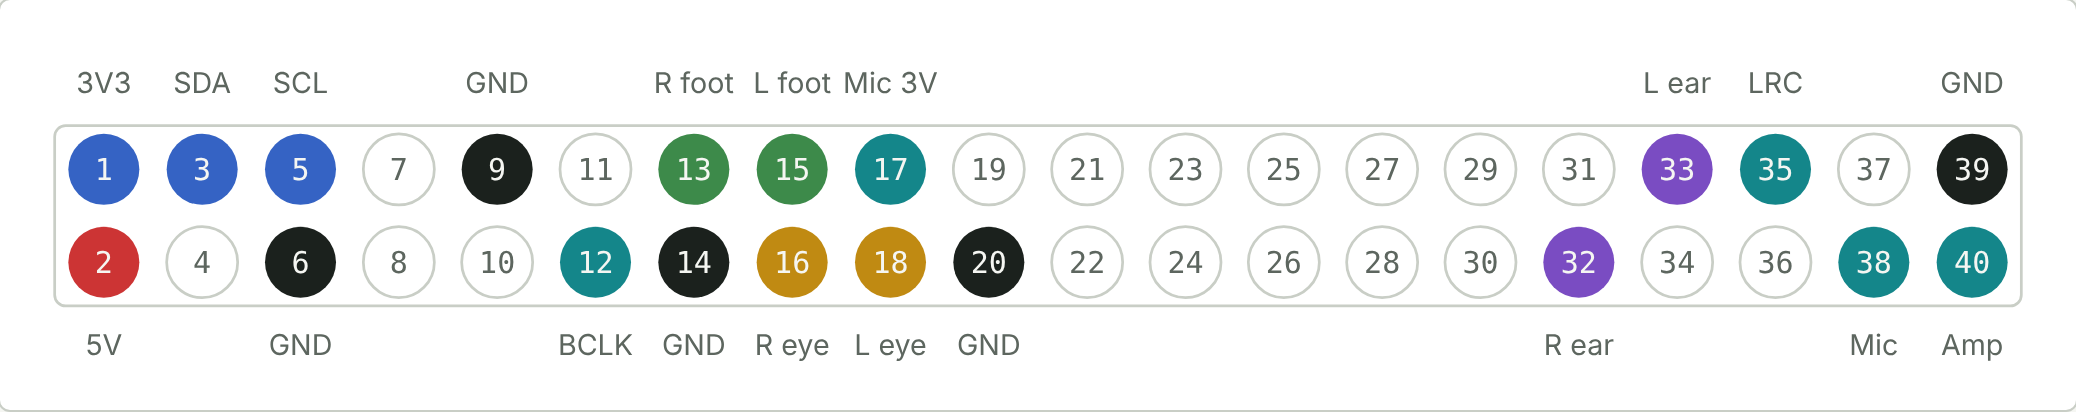
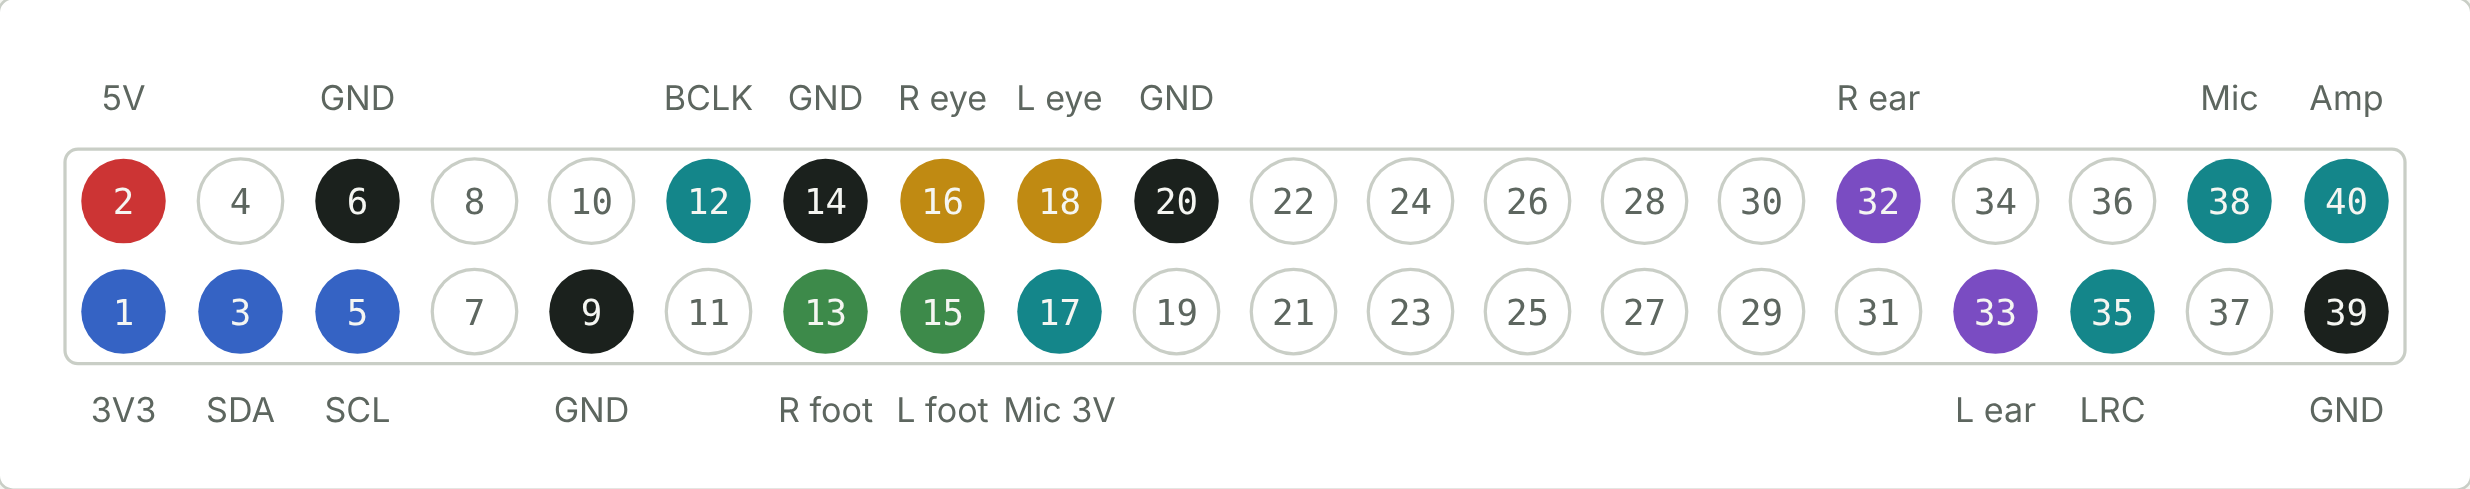
Full review: fix header orientation, feet, jumpers, UBEC floor, switch
- Header map: odd pins on the inner row, as on the board
- Foot switches: C to GND, NO to GPIO, as TNKR step 53; never NC
- Servo board A/B jumper on B (USB), shown only in TNKR step 47
- UBEC input floor 7 V: recharge at 7.0-7.2 V resting
- 3-lug switch: P+ on the middle lug; rating unverified
- Charge with the switch off; switch-off does not isolate the pack
- WAGO 221-613 needs 20 AWG or thicker
- Head disconnect needs a plug and a jack; kit has plugs only
- Errata corrected (#8) and extended (#18, #19)

Claude-Session: https://claude.ai/code/session_015hkd4hjvPSCdMv4uaz4pEB

diff --git a/docs/03-power-distribution.md b/docs/03-power-distribution.md
@@ -9,23 +9,34 @@ The switched 7.4 V rail feeds two loads: the servo board and the UBEC in the hea
 | WAGO plus | Slide switch output | Servo board DC+ | UBEC IN+ |
 | WAGO minus | BMS P− | Servo board DC− | UBEC IN− |
 
-Use 3-way connectors: WAGO 221-413, or 221-613 (same function, rated for 6 mm²). The 221 series takes 0.2–4 mm² wire (24–12 AWG). Strip 11 mm and push the wire fully in. Do not use WAGO connectors for thin signal wires.
+Use 3-way connectors: WAGO 221-413 or 221-613. They do the same job but take different wire sizes:
+
+| Connector | Wire range |
+|---|---|
+| 221-413 | 0.14–4 mm² (24–12 AWG) |
+| 221-613 | 0.5–6 mm² (20–10 AWG) |
+
+With the 221-613, every wire must be 20 AWG or thicker. A 22 AWG lead does not clamp reliably; use a 221-413 for it, or extend it with 20 AWG first. Strip 11 mm and push the wire fully in. Do not use WAGO connectors for thin signal wires.
 
 ## Servo board
 
 Waveshare Bus Servo Adapter (A).
 
 - **Power:** connect DC+ and DC− to the **green screw terminal**. The board also has a round DC jack, and the kit includes 2.1 mm barrel plugs that fit it, but a 2.1 mm barrel connector is typically rated for only a few amps. Fourteen STS3215 servos can draw much more when the robot stands up or walks.
-- **Jumpers:** set to **VM** and **ON**. Switch the pack on and check that the PWR LED lights.
-- **Data:** USB-C on the servo board to the **middle** micro-USB port on the Pi (marked USB). The right-hand micro-USB on the Pi is power only.
+- **Power jumpers:** set to **VM** and **ON** (TNKR step 39). Switch the pack on and check that the PWR LED lights.
+- **A/B jumper:** set to **B**. B selects USB control; A selects the UART header (Waveshare wiki). TNKR shows this only as a label in the step 47 drawing ("set to B"); no step text mentions it.
+- **Data:** USB-C on the servo board to the **middle** micro-USB port on the Pi (marked USB). With the SD card on the left, the right-hand micro-USB (PWR IN) is power only.
 - **Servo bus:** the leg servos plug into servo bus 1 and servo bus 2 as daisy chains. The TNKR text for step 47 calls these "I²C" and "UART" sockets; the drawing and table call them servo bus 1 and 2. Use the two servo bus ports. Direction is corrected in software.
 
 ## UBEC
 
-The UBEC sits in the head and converts the 7.4 V rail to 5 V for the Pi, amplifier and ear servos.
+The UBEC sits in the head and converts the 7.4 V rail to 5 V for the Pi, amplifier and ear servos. TNKR's drawing (step 40) shows a Henge 5 A UBEC printed "INPUT 7V–25.2V".
 
-- **Before connecting anything to its output,** switch on and measure **5.0 V ± 0.1**. If the UBEC has a 5 V / 6 V jumper, it must be on 5 V. 6 V can damage the Pi.
-- Feeding the Pi through its GPIO 5V pin bypasses the Pi's USB fuse. Below 4.75 V the Pi shows an under-voltage warning.
+- **5 V / 6 V jumper on 5 V.** 6 V can damage the Pi.
+- **Before connecting anything to its output,** switch on and measure **5.0 V ± 0.1**.
+- **Input floor 7 V.** The pack runs 6.0–8.4 V, and the servos pull it lower under load. Below about 7 V the 5 V rail can sag and the Pi can reset before the BMS cuts off. Recharge when the pack rests at about 7.0–7.2 V.
+- Feeding the Pi through its GPIO 5V pin bypasses the Pi's USB fuse. The Pi flags under-voltage below about 4.63 V. TNKR says 4.75 V; either way, aim for 5.0–5.1 V.
+- **Never plug a USB power supply into the Pi's PWR port** while the UBEC feeds pin 2. The two supplies would run in parallel with no protection.
 
 ## Removing the head
 
@@ -39,8 +50,8 @@ Most wires through the neck already have connectors:
 | Servo bus to neck and head servos | Servo bus plugs |
 | 7.4 V to the UBEC | **None by default** |
 
-Add a connector in the 7.4 V pair between the WAGO connectors and the neck. The current is low (Pi, ears, LEDs and audio, under 2 A at 7.4 V), so a spare 2.1 mm barrel plug and jack from the kit works, or an XT30. An XT60 is oversized for this line.
+Add a connector in the 7.4 V pair between the WAGO connectors and the neck. The current is low (Pi, ears, LEDs and audio, under 2 A at 7.4 V). A disconnect needs a matching pair: a 2.1 mm barrel plug **and** an inline 2.1 mm barrel jack, or an XT30 pair. The kit has 2.1 mm barrel plugs; you probably have to buy the jack. An XT60 is oversized for this line.
 
 ## No pack connector
 
-The TNKR guide shows an XT60 on the pack output (steps 37–40, 52). The kit does not include one, and it is not needed: the slide switch cuts power, and the pack charges in place over USB-C.
+The TNKR guide shows an XT60 on the pack output (steps 37, 39, 40, 52). The kit does not include one, and it is not needed: the slide switch cuts power, and the pack charges in place over USB-C.

diff --git a/docs/02-battery-pack.md b/docs/02-battery-pack.md
@@ -1,6 +1,6 @@
 # Battery pack
 
-Parts: 18650 cell holder (2 cells), 2× 18650 cells, 2S BMS (HX-2S-JH20), USB-C 2S charger board, slide switch.
+Parts: 18650 cell holder (2 cells), 2× 18650 cells, 2S BMS (HX-2S-JH20), USB-C 2S charger board, 3-lug slide switch.
 
 ![Power wiring](../diagrams/wiring-power.png)
 
@@ -27,9 +27,9 @@ Order matters. Do not change it.
 1. **Third lead on the holder.** Solder a yellow wire to the metal strip between the two cell positions. This is BM. Keep leads 8–10 cm. No cells in the holder yet.
 2. **Tin everything.** Tin the BMS pads (B−, BM, B+, P−, P+) and all wire ends at about 350 °C. Work quickly: the pads are heavy copper.
 3. **Continuity check.** Multimeter in continuity (beep) mode. **B− to P− must not beep.** If it does, the BMS is faulty. B+ to P+ probably beeps; the wiring does not depend on it.
-4. **Cell wires to the BMS, in this order:** black to **B−**, then yellow to **BM**, then red to **B+**. Put the red wire on the **B+** pad, not P+. Never connect B+ before B−.
+4. **Cell wires to the BMS, in this order:** black to **B−**, then yellow to **BM**, then red to **B+**. Put the red wire on the **B+** pad, not P+. Never connect B+ before B−. With no cells in the holder this order has no electrical effect yet; it becomes the habit you repeat at cell insertion (see [Cells](#cells)).
 5. **Charger to the BMS:** BAT− to **P−** first, then BAT+ to **P+**. Some boards print BAT as OUT. BAT− must reach P−, not B−, or the BMS cannot protect during charging.
-6. **Switch:** P+ to the switch. The switch's other leg to WAGO plus (see [03-power-distribution.md](03-power-distribution.md)). Heat-shrink every joint at the switch: the lugs are close together.
+6. **Switch:** the switch has three lugs. P+ to the **middle** lug. One **outer** lug to WAGO plus (see [03-power-distribution.md](03-power-distribution.md)). Leave the other outer lug empty. Never use both outer lugs. Heat-shrink every joint at the switch: the lugs are close together.
 7. **P− to WAGO minus.**
 
 After this, P+ carries two wires (charger BAT+, switch) and P− carries two wires (charger BAT−, WAGO minus).
@@ -54,11 +54,11 @@ The thick wire carries the robot's current. The charger wire carries 1–2 A at 
 | P+ → switch → WAGO, P− → WAGO | 18 AWG |
 | Charger wires | 20 AWG |
 
-Source: TNKR wiring table (step 52).
+Source: TNKR wiring table (step 52) for the cell, switch and WAGO wires. The charger wire gauge is this repo's choice.
 
 ## Cells
 
-Charge both cells first. Their voltages must be within **0.05 V** of each other, or the BMS may shut off. Insert them following the holder's + and − marks. A small spark on the second cell is normal: the BMS capacitors charge.
+Charge both cells first. Their voltages must be within **0.05 V** of each other, or the BMS may shut off (TNKR step 7). Insert them following the holder's + and − marks: the bottom cell (between B− and BM) first, then the top cell (between BM and B+). A small spark on the second cell is normal: the BMS capacitors charge.
 
 ## Measurements
 
@@ -75,8 +75,15 @@ If P− to P+ reads 0 V, the BMS is asleep. Plug in the USB-C charger for a few 
 
 ## Switch test
 
-Measure across the switched output (switch out to P−). One position reads 0 V, the other reads full pack voltage. Mark the ON side.
+Measure across the switched output (the used outer lug to P−). One position reads 0 V, the other reads full pack voltage. Mark the ON side.
+
+All 14 bus servos draw through this switch: several amps while walking, more in peaks. **Unverified:** the current rating of the kit's switch. If it gets warm or the robot browns out under load, replace it with a switch rated 5 A or more.
 
 ## Switch on plus or minus?
 
-TNKR puts the switch on P+. The GitHub diagram puts it on P−. Both cut the power. This repo follows TNKR (P+), because then the robot's chassis and all grounds stay connected to the pack minus even when switched off, which is the usual convention. If your pack is already built with the switch on minus, it works; just swap the roles of the WAGO connectors accordingly.
+TNKR puts the switch on P+. The GitHub diagram puts it on P−. Both cut the power. This repo follows TNKR (P+), for two reasons:
+
+- All grounds stay tied to the pack minus when the robot is off.
+- With the switch on minus, a USB cable to a laptop (on the Pi or the servo board) gives the robot a ground path. The robot can then power up, or carry current, while it is switched "off".
+
+If your pack is already built with the switch on minus: P+ goes straight to WAGO plus, and the switch output goes to WAGO minus. Unplug USB cables to other computers before you work on it.

diff --git a/docs/07-tnkr-errata.md b/docs/07-tnkr-errata.md
@@ -4,14 +4,14 @@ Found by comparing the TNKR Open Duck Mini V2 guide (steps, 2D/3D views, connect
 
 | # | Topic | TNKR shows | Reality | This repo |
 |---|---|---|---|---|
-| 1 | Pack connector | XT60 between switch and loads (steps 37–40, 52) | No XT60 in the kit BOM. The BOM lists 2.1 mm barrel plugs instead. | No pack connector. The switch cuts power. |
+| 1 | Pack connector | XT60 between switch and loads (steps 37, 39, 40, 52) | No XT60 in the kit BOM. The BOM lists 2.1 mm barrel plugs instead. | No pack connector. The switch cuts power. |
 | 2 | Fuse | "The fuse goes on wire 3" (step 37) | No fuse in the kit BOM. | Build without, or add an inline fuse. |
 | 3 | Cell positive wire | Step 5 text and step 52 table: B+. Step 5 drawing: the P+ pad, labelled "B+/P+". Step 35 drawing: missing. | The BMS has separate B+ and P+ pads. The connection table attaches this wire to "Wire 3" instead of a pad, so drawings without wire 3 drop it. | Red cell wire on **B+**. |
 | 4 | B+ and P+ | Drawn as one pad "B+/P+" | Two pads on the board. Probably the same copper; not stated in the manufacturer's manual. | Wiring works either way. |
 | 5 | Switch position | On P+ (steps 37, 52) | GitHub diagram has it on P−. Both work. | P+, as TNKR. |
 | 6 | Servo board power | Green screw terminal (step 39) | GitHub shows the barrel jack input. The kit's barrel plugs fit it but are rated for only a few amps. | Screw terminal. |
 | 7 | Right foot GPIO | Photo says "gpio 26" (step 53) | Connection table: pin 13. Runtime code: GPIO 27 (pin 13). | Pin 13. |
-| 8 | Foot switch ground | Both NO terminals to pin 9 with the IMU ground | Three wires on one pin. | Pins 14 and 20. |
+| 8 | Foot switch ground | Both C (COM) terminals to pin 9 with the IMU ground (step 53) | Three wires on one pin. | Pins 14 and 20. |
 | 9 | Eye LEDs | Two LEDs with 100 Ω resistors on pins 16 and 18, cathode to pin 14 (step 51) | GitHub shows three LEDs (eyes and projector) on pins 16, 18, 22 with no resistors. The runtime has eyes on GPIO 23/24 and an optional projector on GPIO 25. | Two LEDs with resistors, cathodes to the stripboard GND. |
 | 10 | LED rows in the connection table | Resistor 1 lead A and lead B both to pin 18; LED 1 + also to pin 18. Same for resistor 2 and pin 16. | Correct order is Pi pin → resistor → LED +. | Follow the step 51 drawing, not the table. |
 | 11 | Ear servo power | From the UBEC (step 46) | GitHub's pin table powers them from the Pi's pin 2. | UBEC via the stripboard. |
@@ -21,3 +21,5 @@ Found by comparing the TNKR Open Duck Mini V2 guide (steps, 2D/3D views, connect
 | 15 | Kit contents | FAQ: camera and microphone not included | BOM lists both. | Check your box. |
 | 16 | Pi header | BOM: Raspberry Pi Zero 2 W | The W model usually ships without a header. | Solder a 2×20 header if yours has none. |
 | 17 | Motor configuration power | GitHub: use "the battery pack" | TNKR step 1: the cell holder and two cells are enough; the finished pack comes later. | As TNKR. |
+| 18 | Servo board A/B jumper | Only a label in the step 47 drawing: "set to B". No step text mentions it; step 39 sets only VM and ON. | Waveshare: B = USB control, A = UART header. The Pi uses USB. | A/B jumper on B. Listed in the bring-up checklist. |
+| 19 | Pi under-voltage level | "Below 4.75 V" (step 44) | The Pi flags under-voltage at about 4.63 V. | Aim for 5.0–5.1 V. |

diff --git a/docs/04-head-wiring.md b/docs/04-head-wiring.md
@@ -42,7 +42,7 @@ The servo's plug holds all three wires in one housing. Split it:
 
 1. Lift the plastic latch next to the orange wire with a needle and slide the terminal out.
 2. Put heat-shrink over the bare terminal and push it directly onto the Pi pin.
-3. Brown and red stay in the original housing, which plugs onto the stripboard header.
+3. Brown and red stay in the original housing, which plugs onto the stripboard header. Brown sits on GND, red on 5 V, and the empty cavity hangs off the 5 V edge of the board. Check with a meter before power-on: reversed, the servo gets reverse polarity.
 
 No extra parts needed. If the orange wire does not reach the Pi, extend it with a male–female jumper.
 
@@ -51,18 +51,22 @@ No extra parts needed. If the orange wire does not reach the Pi, extend it with 
 | Right ear | GPIO 12 | 32 |
 | Left ear | GPIO 13 | 33 |
 
-Source: `antennas.py` in the TNKR runtime. The code does not say whether left and right are from the duck's or your point of view. Swap the plugs if an ear moves on the wrong side.
+Source: `antennas.py` in the TNKR runtime. The code does not say whether left and right are from the duck's or your point of view. If an ear moves on the wrong side, swap the two orange terminals on pins 32 and 33.
+
+Software note: if you enable hardware PWM with `dtoverlay=pwm-2chan`, give it the pins (`pin=12,func=4,pin2=13,func2=4`). Without them the overlay takes GPIO 18/19 and breaks I2S audio.
 
 ## Eye LEDs
 
 Two LEDs, **each through its own 100 Ω resistor** in series with the anode. A GPIO pin can only supply around 16 mA.
+
+TNKR's step 51 drawing labels them 1 W flashlight LEDs. A white LED needs about 3.0–3.3 V, so on a 3.3 V pin through 100 Ω it gets only a few mA and glows dimly. That is expected and harmless. Brighter eyes need a transistor driver, which is outside this build.
 
 | LED | Anode via 100 Ω | Pin |
 |---|---|---|
 | Right eye | GPIO 23 | 16 |
 | Left eye | GPIO 24 | 18 |
 
-Join the two cathodes at the LEDs and run one wire to stripboard column 4 (GND). TNKR runs the cathode to Pi pin 14; the stripboard keeps the header pin free.
+Join the two cathodes at the LEDs and run one wire to stripboard column 4 (GND). TNKR runs the cathode to Pi pin 14; the stripboard keeps the header pin free. If an eye lights on the wrong side, swap the wires on pins 16 and 18.
 
 The runtime also supports a projector LED on GPIO 25 (pin 22). It is not in the kit.
 

diff --git a/docs/06-bring-up.md b/docs/06-bring-up.md
@@ -19,25 +19,30 @@ Work through this in order. Stop at the first check that fails.
 ## Body
 
 - [ ] Plus and minus in separate WAGO connectors, every wire pushed fully in.
-- [ ] Servo board jumpers on VM and ON. Switch on: PWR LED lights.
+- [ ] Servo board jumpers on VM and ON, A/B jumper on B (USB). Switch on: PWR LED lights.
 
 ## Head, without the Pi
 
 - [ ] Stripboard: 5 V to GND does not beep.
 - [ ] Switch on: 5.0 V ± 0.1 between the stripboard rails. UBEC jumper (if any) on 5 V.
-- [ ] Switch off. Ear servos on with brown toward GND.
+- [ ] Switch off. Ear servo plugs on the headers. Meter check: brown on GND, red on 5 V.
 
 ## With the Pi
 
-- [ ] Pi on the header. USB cable from the servo board in the Pi's **middle** micro-USB (marked USB).
+- [ ] Dupont leads on the Pi header, one per pin as in [05-pinout.md](05-pinout.md). USB cable from the servo board in the Pi's **middle** micro-USB (marked USB). Nothing in the PWR port.
 - [ ] Switch on. The Pi boots without an under-voltage warning.
 - [ ] Run `python3 mini_bdx_runtime/mini_bdx_runtime/feet_contacts.py` and press each foot switch.
 
 ## First charge
 
+- [ ] Switch **off**. With the switch on, the Pi and servos load the pack while it charges, and the charge may never finish.
 - [ ] Plug in USB-C, check the charger LED, watch the pack rise toward 8.4 V.
-- [ ] Let one full cycle finish so the BMS can balance the cells.
+- [ ] Let one full cycle finish. TNKR says this lets the BMS balance the cells. **Unverified** whether your HX-2S-JH20 variant balances; check the cell voltages (B− to BM, BM to B+) after the charge.
+
+## In use
+
+- [ ] Recharge when the pack rests at about 7.0–7.2 V. The UBEC needs 7 V in.
 
 ## Working on the robot
 
-Switch off before plugging or unplugging anything. The slide switch does the same as disconnecting the battery; you do not need to open the WAGO connectors.
+Switch off before plugging or unplugging anything. The switch cuts the plus feed to everything after it. The cells, BMS, charger, the wire from P+ to the switch and the whole minus side stay live. For work on the pack itself, take the cells out.

diff --git a/docs/05-pinout.md b/docs/05-pinout.md
@@ -4,7 +4,7 @@
 
 ![Signal wiring](../diagrams/wiring-signals.png)
 
-Viewed from above with the SD card on the left. Pin 1 is the square pad.
+Viewed from above with the SD card on the left and the header along the top edge. Even pins sit on the board edge. Pin 1 is the square pad, on the inner row.
 
 | Pin | Function | Wire from |
 |---|---|---|
@@ -15,13 +15,13 @@ Viewed from above with the SD card on the left. Pin 1 is the square pad.
 | 6 | GND | Stripboard GND rail |
 | 9 | GND | IMU GND |
 | 12 | BCLK (GPIO 18) | Microphone BCLK, chained on to amplifier BCLK |
-| 13 | GPIO 27 | Right foot switch, COM |
-| 14 | GND | Right foot switch, NO |
-| 15 | GPIO 22 | Left foot switch, COM |
+| 13 | GPIO 27 | Right foot switch, NO |
+| 14 | GND | Right foot switch, COM (C) |
+| 15 | GPIO 22 | Left foot switch, NO |
 | 16 | GPIO 23 | 100 Ω → right eye LED + |
 | 17 | 3.3 V | Microphone 3V |
 | 18 | GPIO 24 | 100 Ω → left eye LED + |
-| 20 | GND | Left foot switch, NO |
+| 20 | GND | Left foot switch, COM (C) |
 | 32 | GPIO 12 (PWM) | Right ear servo, orange wire directly |
 | 33 | GPIO 13 (PWM) | Left ear servo, orange wire directly |
 | 35 | LRC (GPIO 19) | Microphone LRCL, chained on to amplifier LRC |
@@ -49,6 +49,6 @@ IMU on I2C (pins 3, 5) and I2S audio (pins 12, 35, 38, 40) use the Pi's fixed ha
 
 ## Foot switches
 
-The switch closes when the foot touches the ground. COM goes to the GPIO, NO goes to GND. The runtime reads the pin with a pull-up.
+The switch closes when the foot touches the ground. NO goes to the GPIO, COM (marked C) goes to GND, as in TNKR step 53. The two are interchangeable: the switch only joins them. Never use NC; it inverts the reading. The runtime enables a pull-up and reads a low pin as contact.
 
-TNKR connects both feet's NO terminals to pin 9 together with the IMU ground: three wires on one pin. This build uses pins 14 and 20.
+TNKR connects both feet's C terminals to pin 9 together with the IMU ground: three wires on one pin. This build uses pins 14 and 20.

diff --git a/docs/bom-electrical.md b/docs/bom-electrical.md
@@ -13,14 +13,14 @@ From the TNKR kit BOM, electrical items only.
 | Servo control board | 1 | Waveshare Bus Servo Adapter (A) |
 | MAX98357A I2S amplifier | 1 | |
 | Speaker (4 Ω) | 1 | |
-| Eye LEDs | 1 set | Two LEDs |
+| Eye LEDs | 1 set | Two 1 W flashlight LEDs |
 | 2S BMS | 1 | HX-2S-JH20 |
-| 5 V regulator (UBEC) | 1 | |
+| 5 V regulator (UBEC) | 1 | Henge 5 A in TNKR's drawing. Input 7–25.2 V, 5 V / 6 V jumper |
 | USB-C charger (2S) | 1 | |
 | 18650 cell | 2 | |
 | 18650 cell holder | 1 | |
-| Small power switch | 1 | |
-| 2.1 mm barrel jack | 1–2 | Fits the servo board's DC jack. Use as head disconnect |
+| Slide switch, 3 lugs | 1 | Current rating unverified, see [02-battery-pack.md](02-battery-pack.md#switch-test) |
+| 2.1 mm barrel plug | 1–2 | Fits the servo board's DC jack. Not used in this build unless paired with a jack for the head disconnect |
 | BNO055 IMU | 1 | |
 | SPH0645 I2S microphone | 1 | |
 | Foot contact switches | 2 | |
@@ -34,10 +34,11 @@ From the TNKR kit BOM, electrical items only.
 | Part | Qty | Example |
 |---|---|---|
 | Stripboard (copper strips, 2.54 mm) | 1 small piece | 50×100 mm is plenty |
-| Male pin header, 1×40, 2.54 mm | 2 | For the stripboard and, if needed, the Pi |
+| Male pin header, 1×40, 2.54 mm | 1 | Stripboard: two 2-pin pieces for the ear servos |
+| Male pin header, 2×20, 2.54 mm | 1 | Only if your Pi has no header |
 | WAGO 221-613 or 221-413 (3-way) | 2 (+1 spare) | Plus and minus split |
 | 100 Ω resistor | 2 | Eye LEDs. Check whether your kit includes them |
 | Dupont housings and crimp pins | Assortment | Or cut female–female jumper wires in half |
 | Heat-shrink tube | Assortment | |
 
-Optional: inline fuse on the pack output; XT30 pair or a second barrel jack for the head disconnect.
+Optional: inline fuse on the pack output. For the head disconnect: an XT30 pair, or an inline 2.1 mm barrel jack to mate with a kit plug.

diff --git a/docs/01-overview.md b/docs/01-overview.md
@@ -1,6 +1,6 @@
 # System overview
 
-Three wiring diagrams show every pad and every wire. They are generated from [connections.csv](../connections.csv); wire IDs (W01…) match the table.
+Three wiring diagrams show every pad and every wire. They are generated from [connections.csv](../connections.csv); wire IDs (W01…) match the table. Gaps in the numbering (W38, W42) are wires removed in a redesign; IDs are never reused.
 
 | Diagram | Shows |
 |---|---|
@@ -32,7 +32,7 @@ flowchart TD
   PI -->|USB data| SB
 ```
 
-There are two rails:
+There are three rails:
 
 | Rail | Source | Feeds |
 |---|---|---|
